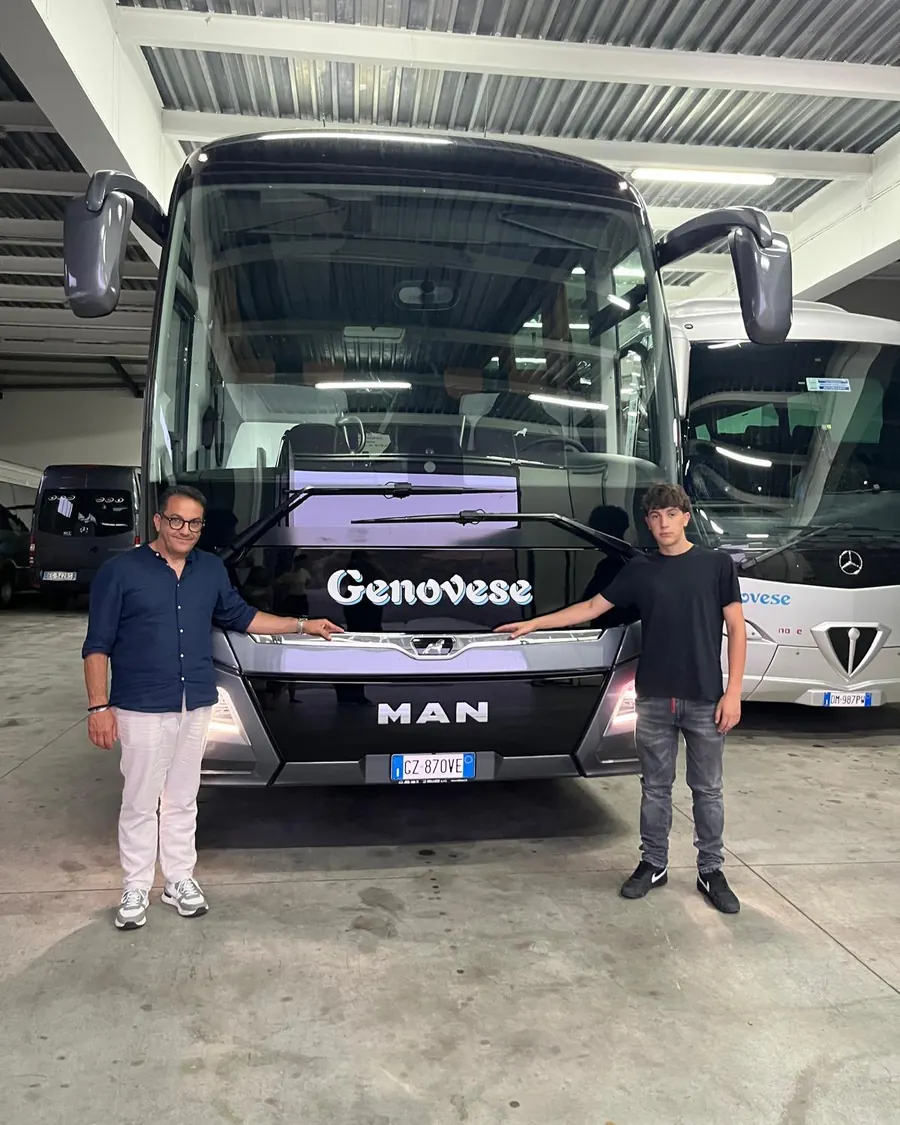
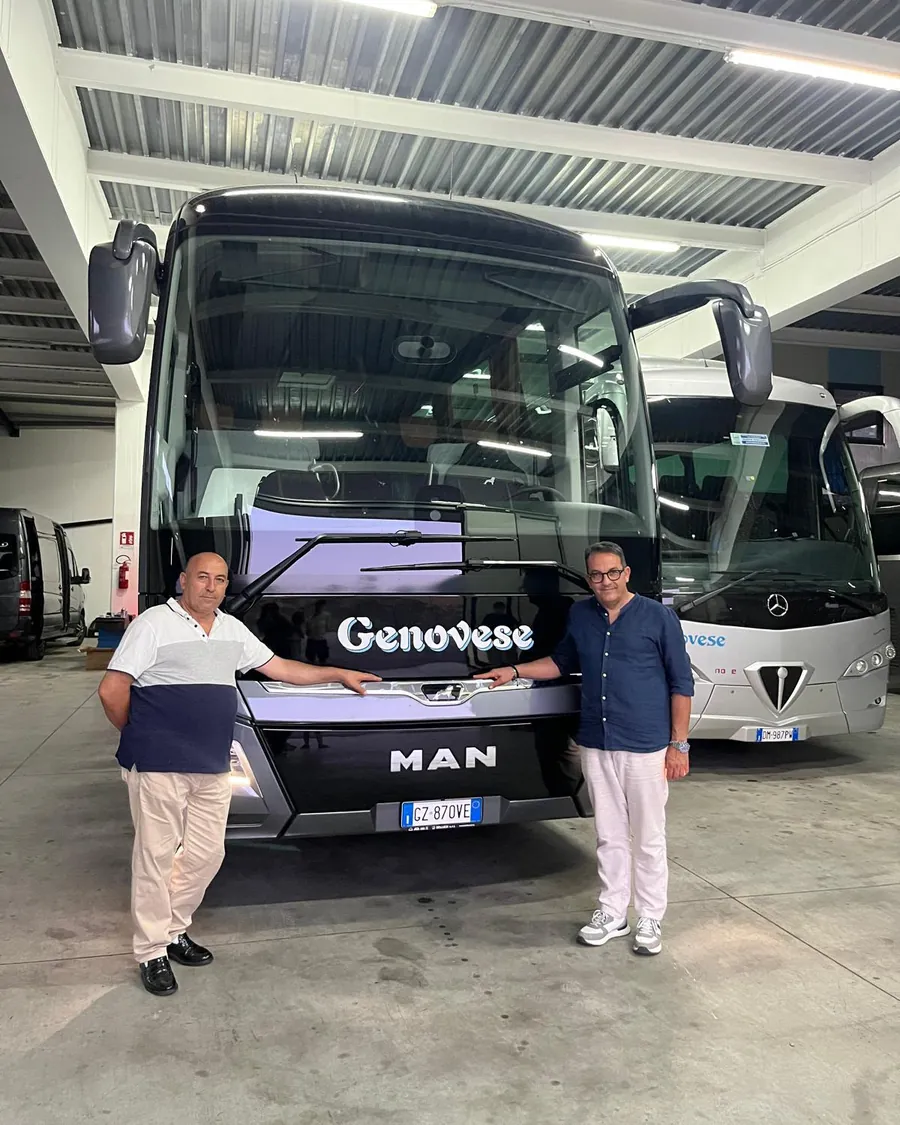
Genovese: Travego e Setra 415 GT-HD da 53 posti, foto dei titolari

diff --git a/autolinee-genovese-bozza/index.html b/autolinee-genovese-bozza/index.html
@@ -81,7 +81,7 @@
 </section>
 
 <section class="offerta" aria-label="Posti disponibili" data-reveal>
-  <p class="frase">Da <span class="cifra" data-conta="16">16</span> a <span class="cifra" data-conta="52">52</span> posti.</p>
+  <p class="frase">Da <span class="cifra" data-conta="16">16</span> a <span class="cifra" data-conta="53">53</span> posti.</p>
   <div class="offerta-sotto">
     <p data-reveal style="--i:1">Sempre con il nostro autista. Minibus, midibus e pullman gran turismo: dicci quanti siete, al mezzo pensiamo noi. <mark class="dc">Posti da confermare.</mark></p>
     <a class="pulsante" href="#preventivo" data-reveal style="--i:2">Quanti siete?</a>
@@ -128,30 +128,30 @@
     </div>
   </article>
 
-  <article class="mezzo" id="mezzo-setra" data-posti="50" data-nome="pullman gran turismo Setra" style="--col:3;--col-m:3">
+  <article class="mezzo" id="mezzo-setra" data-posti="53" data-nome="pullman gran turismo Setra" style="--col:3;--col-m:3">
     <img class="sfondo" src="img/mezzo-setra-sfondo.webp" width="1920" height="1080" alt="Pullman Setra bianco con la grande G colorata su una strada innevata" loading="lazy">
     <div class="mezzo-griglia">
       <div class="scheda">
-        <h3>Setra <mark class="dc">ComfortClass</mark></h3>
+        <h3>Setra 415 GT-HD</h3>
         <p class="variante">Gran turismo, bianco con la G</p>
-        <p class="posti"><mark class="dc">50</mark> posti · <mark class="dc">Euro 6</mark></p>
+        <p class="posti">53 posti + autista e accompagnatore · <mark class="dc">Euro 6</mark></p>
         <img src="img/mezzo-setra-intero.webp" width="720" height="480" alt="Pullman Setra bianco Genovese di sera, davanti a un hotel illuminato" loading="lazy">
         <ul><li>Sedili reclinabili</li><li><mark class="dc">Schermi, bagno, aria condizionata</mark></li><li>Ha già girato l'Europa, fino a Budapest</li></ul>
-        <a class="pulsante" href="#preventivo" data-scegli="50">Chiedi questo mezzo</a>
+        <a class="pulsante" href="#preventivo" data-scegli="53">Chiedi questo mezzo</a>
       </div>
     </div>
   </article>
 
-  <article class="mezzo" id="mezzo-tourismo" data-posti="49" data-nome="pullman Mercedes-Benz Tourismo" style="--col:4;--col-m:3">
+  <article class="mezzo" id="mezzo-tourismo" data-posti="53" data-nome="pullman Mercedes-Benz Travego" style="--col:4;--col-m:3">
     <img class="sfondo" src="img/mezzo-tourismo-sfondo.webp" width="1920" height="1080" alt="Pullman Mercedes grigio con le luci interne accese, di sera, in una piazza lastricata" loading="lazy">
     <div class="mezzo-griglia">
       <div class="scheda">
-        <h3>Mercedes-Benz <mark class="dc">Tourismo</mark></h3>
+        <h3>Mercedes-Benz Travego</h3>
         <p class="variante">Gran turismo, grigio e verde</p>
-        <p class="posti"><mark class="dc">49</mark> posti · <mark class="dc">Euro 6</mark></p>
+        <p class="posti">53 posti + autista e accompagnatore · <mark class="dc">Euro 6</mark></p>
         <img src="img/mezzo-tourismo-intero.webp" width="720" height="480" alt="Pullman Mercedes Genovese grigio con la scritta verde e le luci interne accese, di sera" loading="lazy">
         <ul><li>Luci di cortesia e tende</li><li><mark class="dc">Bagno, frigo, prese USB</mark></li><li>Adatto a matrimoni e cerimonie</li></ul>
-        <a class="pulsante" href="#preventivo" data-scegli="49">Chiedi questo mezzo</a>
+        <a class="pulsante" href="#preventivo" data-scegli="53">Chiedi questo mezzo</a>
       </div>
     </div>
   </article>
@@ -228,8 +228,8 @@
   <div class="famiglia-titolo"><h2 id="famiglia-t" class="maschera"><span class="riga"><span>Famiglia</span></span><span class="riga"><span>Genovese</span></span></h2></div>
   <div class="ritratti">
     <figure class="ritratto" data-reveal>
-      <img class="foto" src="img/storia-titolari.webp" width="900" height="1125" alt="Due uomini in piedi ai lati di un pullman MAN Genovese, nella rimessa" loading="lazy">
-      <figcaption><b><mark class="dc">Nome e cognome</mark></b><span>Titolare</span>Foto da usare solo con il permesso delle persone ritratte.</figcaption>
+      <img class="foto" src="img/storia-titolari.webp" width="900" height="1125" alt="I due titolari di Autolinee Genovese in piedi ai lati di un pullman MAN, nella rimessa" loading="lazy">
+      <figcaption><b><mark class="dc">Nomi e cognomi</mark></b><span>Titolari</span>I titolari davanti al MAN, nella rimessa.</figcaption>
     </figure>
     <figure class="ritratto" data-reveal>
       <video class="foto" src="img/video-strada.mp4" poster="img/video-strada-poster.webp" width="464" height="832" muted loop playsinline preload="none" aria-label="Video: un pullman MAN Genovese in autostrada verso Matera"></video>
